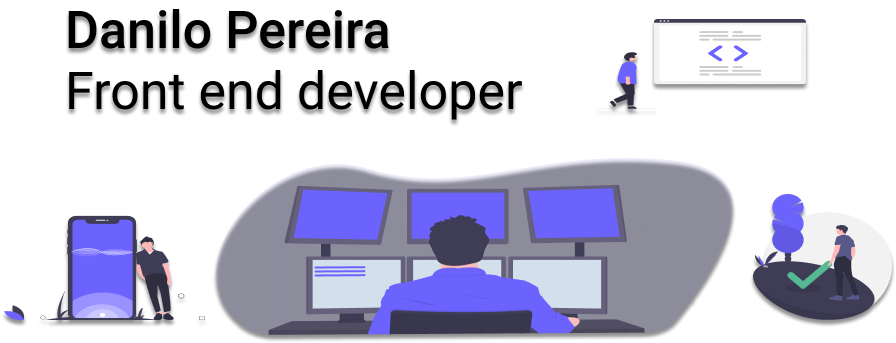
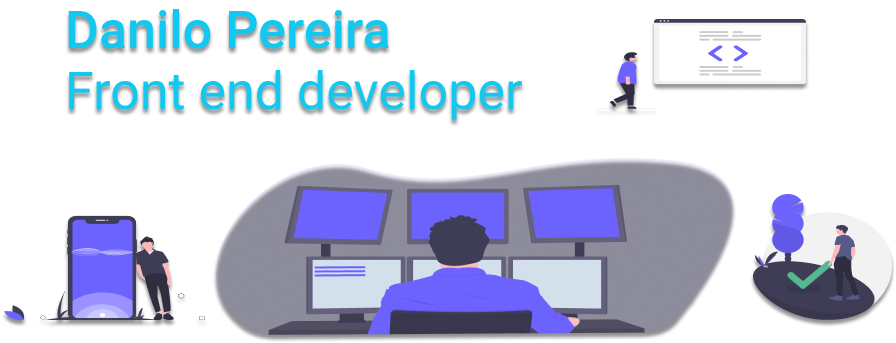
New: Fisrt commit

Changed region(s): [[0.0625, 0.2041, 0.5938, 0.3499], [0.0625, 0.0292, 0.4375, 0.1458]]

diff --git a/README.md b/README.md
@@ -1,6 +1,6 @@
 <p align="center">
   <a href="https://dev-danilo.netlify.app/">
-    <img src="https://i.ibb.co/JCRSZYQ/cover.png" alt="cover" title="Danilo Pereira" border="0">
+    <img src="https://i.ibb.co/1mGcYg5/cover.png" alt="cover" title="Danilo Pereira" border="0">
   </a>
 </p>
 
